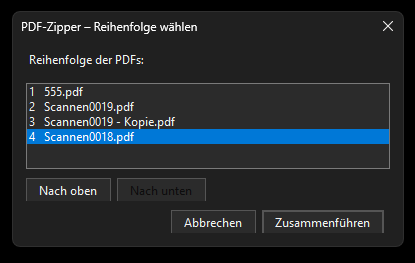
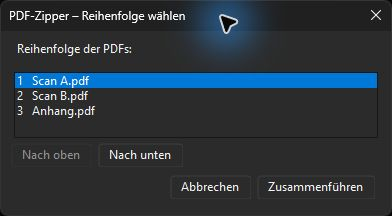
Replace outdated screenshots with current 0.1.10 dialogs

diff --git a/README.md b/README.md
@@ -1,4 +1,4 @@
-# PDF-Zipper
+# PDF-Zipper
 
 Zwei Scan-PDFs im Windows-11-Explorer markieren → Rechtsklick → **PDF-Zipper** → **PDFs verzahnen**.
 
@@ -12,7 +12,7 @@ PDF-Zipper kombiniert Vorderseiten in normaler Reihenfolge mit Rückseiten in um
 
 ## Screenshots
 
-Windows-11-Aufnahmen aus der lokalen Entwicklung im dunklen Design. Die Dialoge folgen auch dem hellen Windows-Design. Die abschließende Gestaltung von 0.1.10 hat noch dezentere Konturen.
+Aktuelle Dialoge von PDF-Zipper 0.1.10 unter Windows 11 im dunklen Design, mit neutralen Beispieldateien. Die Dialoge folgen auch dem hellen Windows-Design.
 
 **Vorderseiten auswählen** – bei unklaren Dateinamen genügt ein Klick auf die passende PDF:
 
